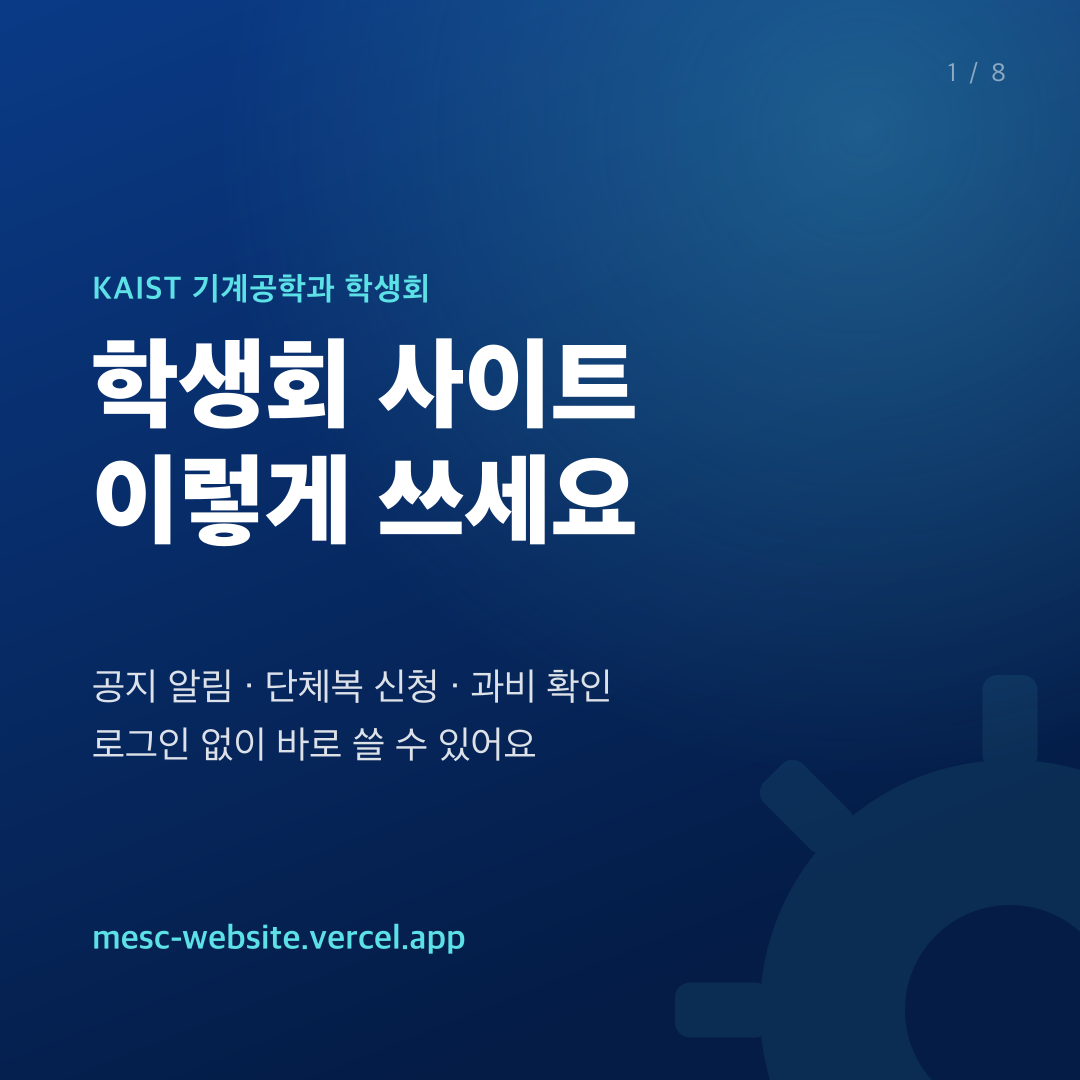
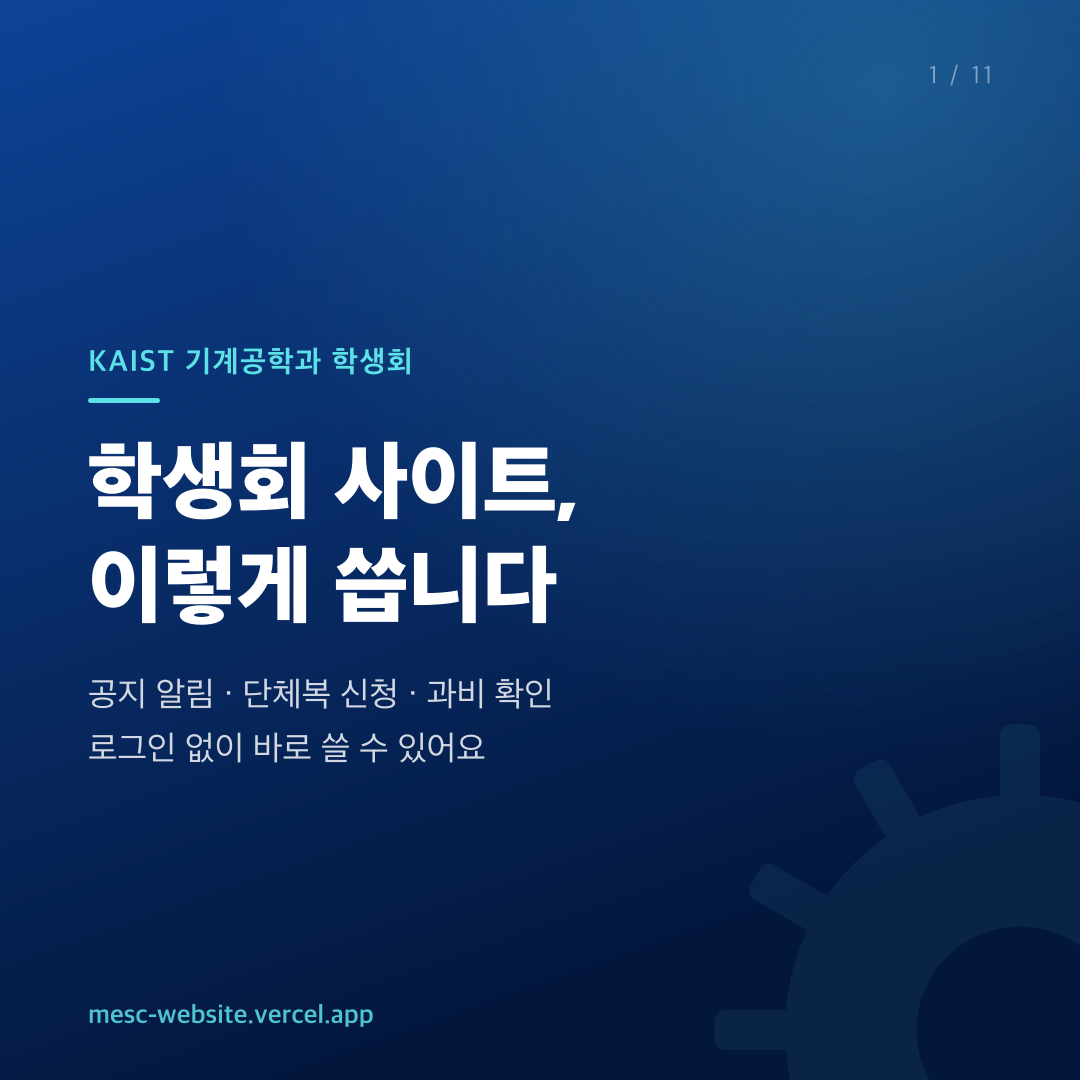
docs(cardnews): 새 매뉴얼에 맞춰 11장으로 다시 제작
8장 요약본을 버리고 확장된 학생용 사용법을 따라 11장으로 재구성.
레이아웃을 부품화(번호 배지, 반투명 패널, 단계·점 목록, 강조 띠)하고
강조 띠 위치는 패널 높이에서 계산해 항목 수가 달라져도 겹치지 않게 함.

Claude-Session: https://claude.ai/code/session_011GQUemM1zTe4fHAKx2VFFn

diff --git a/AGENTS.md b/AGENTS.md
@@ -41,3 +41,4 @@ This version has breaking changes — APIs, conventions, and file structure may 
 - 2026-09-08 사용 매뉴얼 확장·화면 문구 정정 — 매뉴얼을 요약본에서 레퍼런스로 재작성(`docs/manual/`): 학생용 12장(메뉴 지도·공지·알림·이벤트 전 과정·과비·캘린더·강의·평면도·커뮤니티·개인정보·FAQ), 관리자 12장(대시보드 4카드 정의·캠페인 4탭·공지 첨부와 알림 3경로·행사/드라이브·모더레이션·팝업·학과 정보·사이트 설정·**되돌릴 수 없는 작업 목록**·개인정보·문제 해결·인수인계 체크리스트), `부록A-규칙과-한도.md`(업로드 한도·보유기간·레이트리밋·알림 조건·캐시 지연·주문 상태 기계·환경변수), `부록B-오류-문구-사전.md`(화면 문구 → 원인 → 조치), `README.md` 색인. 조사는 공개/관리자/정책 3개 에이전트 병렬. **코드 정정 3건**: `fill()` 이 `{name}` 을 치환하지 않아 재고 부족 안내가 학생 화면에 "{name} 옵션의 남은 수량이…" 로 그대로 노출되던 것, 행사 "재동기화" 안내가 삭제도 반영된다고 잘못 안내하던 것(실제로는 추가만), 마스코트·캠페인 이미지 안내의 "5MB 이하"(실제 `/api/upload` 한도는 4MB)
 - 2026-09-08 매뉴얼 PDF — `scripts/make-manual-pdf.mjs` 가 `docs/manual/*.md` 를 인쇄용으로 조판해 `docs/manual/pdf/` 에 찍는다(학생용 27쪽 / 관리자+부록A·B 45쪽). 의존성 없이 마크다운을 직접 HTML 로 바꾸고(표·인용·목록·이미지·코드) 헤드리스 크롬으로 출력. **크롬은 `--user-data-dir` 로 별도 프로필을 주지 않으면 사용자의 크롬과 충돌해 응답 없이 멈춘다**(이전 라운드 스크린샷 시도가 두 번 멈춘 원인). 쪽 번호가 있는 꼬리말은 CLI `--print-to-pdf` 로는 못 넣어 DevTools 프로토콜(`Page.printToPDF`, Node 내장 WebSocket)로 붙였고, **연결은 반드시 `/json/list` 의 `type:"page"` 대상으로** 해야 한다(브라우저 수준 소켓에는 Page 도메인이 없어 'Page.enable' wasn't found). 표지 h1 은 본문 h1 규칙(남색 글자·페이지 넘김)을 물려받아 남색 바탕에서 안 보였으므로 색·테두리·page-break 를 모두 재선언
 - 2026-09-08 프리뷰 배포 실패 — **프리뷰 스코프에 `DATABASE_URL`/`TURSO_AUTH_TOKEN` 이 없어** `libsql-migrate` 가 스킵되고 빈 SQLite 로 빌드가 진행돼, 서버 컴포넌트 프리렌더가 `SQLITE_ERROR: no such table: main.Building` 으로 던지면서 빌드 전체가 중단됐다(프로덕션은 변수가 있어 정상). 8/25 사고 때 프로덕션 스코프에만 재추가한 것이 원인. 조치: `lib/safe-query.ts` 로 **프리렌더 중 DB 조회 실패를 빈 값으로 흡수**(홈·학부 소개·학과 안내·과목 상세). 데이터가 없어도 빌드가 끝나고, ISR 이라 다음 갱신에 정상 데이터로 채워진다. 프로덕션 빌드 중 DB 가 잠깐 흔들려도 배포가 막히지 않는다. 재현·검증: `DATABASE_URL="file:/tmp/빈.db" npm run build` → 이전에는 중단, 지금은 80/80 통과. 프리뷰에서 실제 데이터를 보려면 프리뷰 스코프에 별도 DB 변수를 넣어야 한다(프로덕션 DB 를 그대로 쓰면 프리뷰 코드가 실데이터를 건드린다)
+- 2026-09-08 카드뉴스 v2 — 8장 → 11장으로 다시 만들고 확장된 학생용 매뉴얼과 내용을 맞췄다(무엇이 있나 / 알림 / 아이폰 설치 / 신청 / 관리 코드 / 조회 / 수령 확인 / 과비 / 그 밖에 / 마무리). 레이아웃을 부품화(번호 배지+분류 라벨 머리, 반투명 패널, 번호 단계·점 목록, 하단 강조 띠)하고 **강조 띠 위치를 패널 높이에서 계산**하도록 바꿨다 — 좌표를 손으로 적었더니 항목이 3개인 카드에서 목록과 겹쳤다

diff --git a/docs/manual/cardnews/README.md b/docs/manual/cardnews/README.md
@@ -1,7 +1,21 @@
 # 카드뉴스 (인스타그램 1:1)
 
-`card-01.png` … `card-08.png` — 1080×1080. 학생용 사용법(`../학생용-사용법.md`)을 8장으로 요약한 것입니다.
+`card-01.png` … `card-11.png` — 1080×1080. [학생용 사용법](../학생용-사용법.md)을 11장으로 요약한 것입니다.
 번호 순서대로 캐러셀에 올리면 됩니다.
+
+| 장 | 내용 |
+|---|---|
+| 01 | 표지 |
+| 02 | 무엇이 있나 — 기능 다섯 가지 |
+| 03 | 공지 알림 켜기 (안드로이드·컴퓨터) |
+| 04 | 아이폰은 홈 화면에 추가부터 |
+| 05 | 단체복·행사 신청하는 법 |
+| 06 | 신청 직후 화면을 캡처해야 하는 이유 |
+| 07 | 내 신청 확인 — 조회 세 가지와 상태 흐름 |
+| 08 | 수령 확인 — 받았는지 알려주기 |
+| 09 | 과비 확인 |
+| 10 | 그 밖의 기능 |
+| 11 | 마무리 · 문의처 |
 
 ## 내용 고치기
 
@@ -11,4 +25,11 @@
 node scripts/make-cardnews.mjs
 ```
 
-줄바꿈은 자동으로 되지 않습니다. 배열에서 한 줄씩 직접 나눠야 하고, 본문은 한 줄에 20자 안쪽이 적당합니다.
+**매뉴얼을 고쳤으면 카드도 같이 맞춰 주세요.** 내용은 학생용 사용법을 따릅니다.
+
+### 두 가지 제약
+
+- **자동 줄바꿈이 없습니다.** 배열에서 한 줄씩 직접 나눠야 하고, 본문은 한 줄에 22자 안쪽이 적당합니다.
+- **이모지는 렌더되지 않습니다.** 문구에 넣지 마세요.
+
+목록·강조 띠·하단 문구는 위치를 자동으로 계산하므로, 항목 수를 늘리거나 줄여도 겹치지 않습니다.
